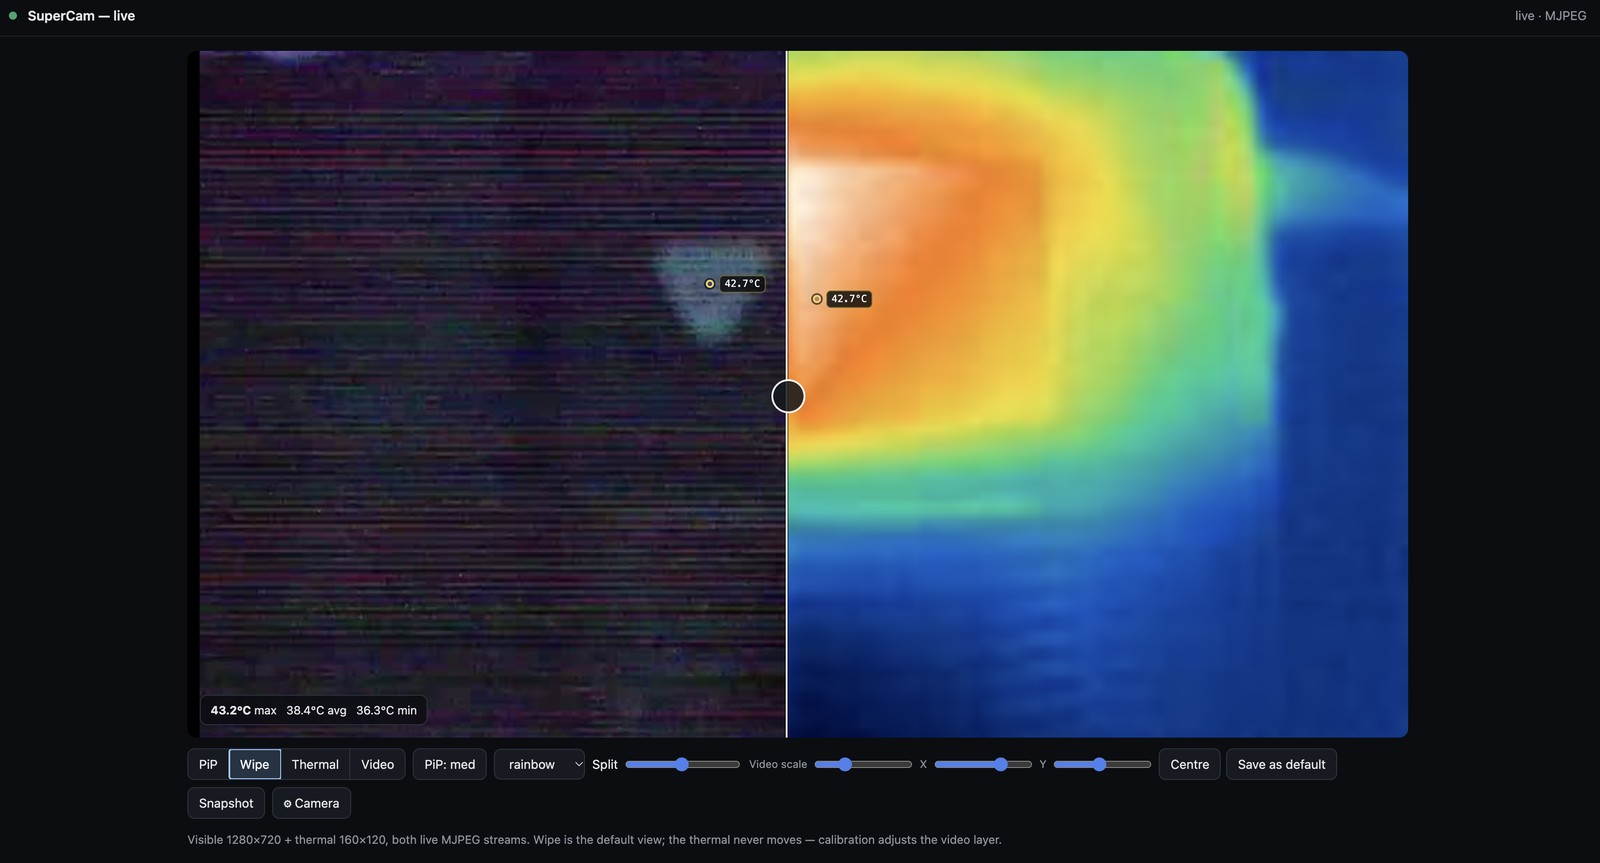
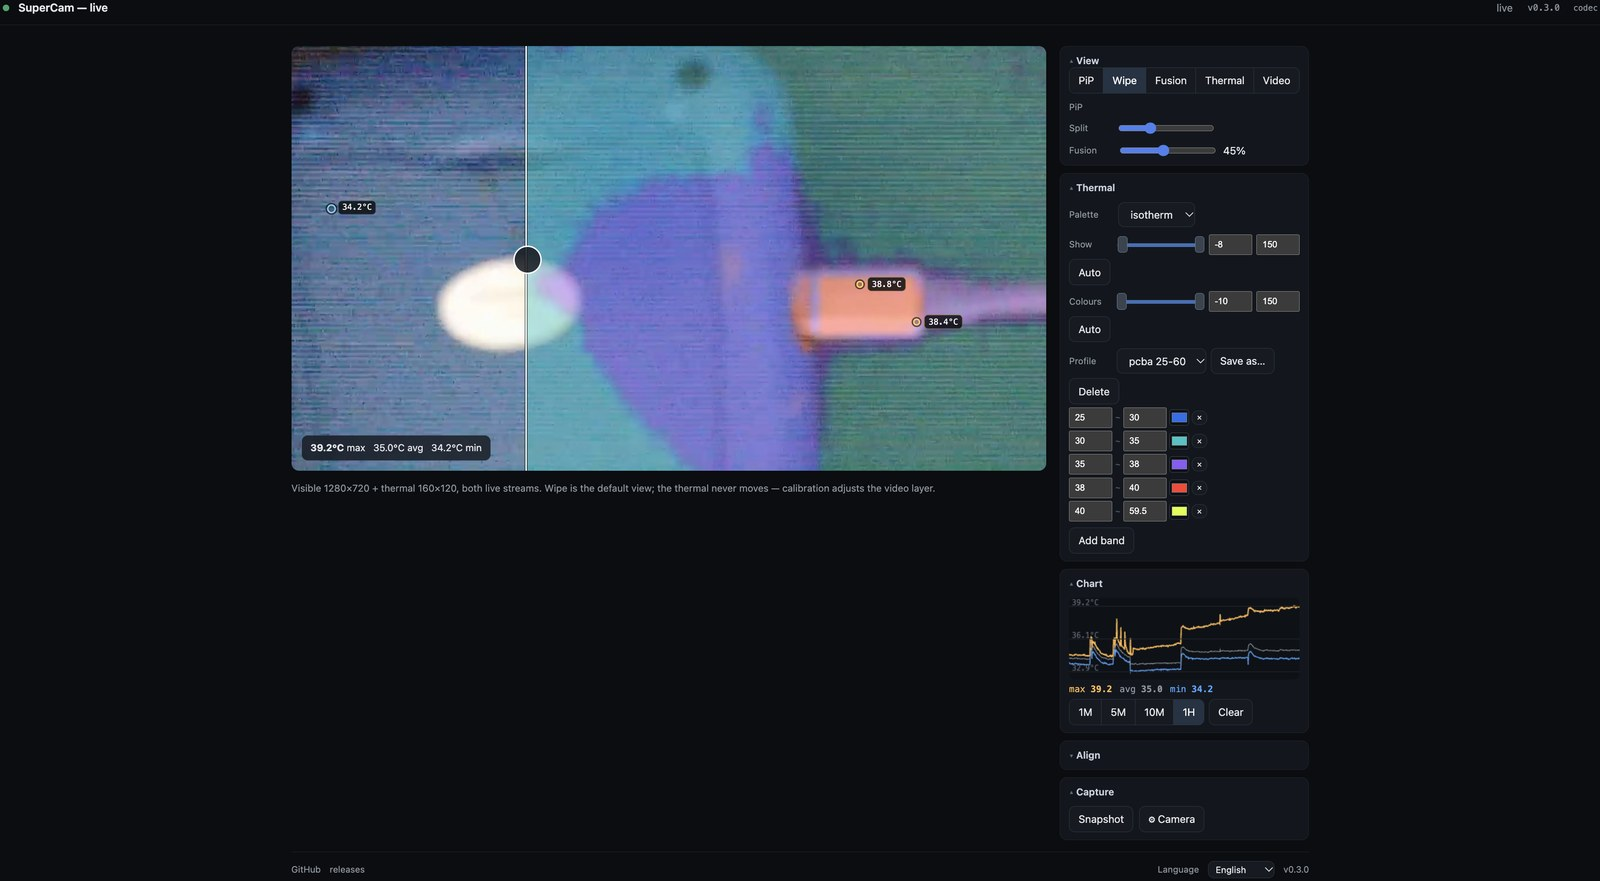
README: new hero image and the current feature set
Replaces the screenshot with the isotherm/wipe view (cropped and recompressed), and
rewrites What you get and The web GUI to match what is actually there now: the two
temperature bands, isotherm profiles with per-band colours, Fusion (including in Wipe
and PiP), the alignment controls, the temperature chart, translations and the side
panel.

diff --git a/README.md b/README.md
@@ -7,7 +7,7 @@ camera, several badges: this project should work with any of them, in your brows
 
 Point it at your network and it finds the camera, connects, and serves a web GUI.
 
-![SuperCam live view - visible and thermal, in Wipe mode](docs/supercam-example.jpg)
+![SuperCam web GUI - wipe comparison with the isotherm palette, band controls and temperature chart](docs/supercam-example.jpg)
 
 ## Quick start
 
@@ -34,11 +34,21 @@ pip install -r requirements.txt
   origin, since WebCodecs requires a secure context — fall back to a small
   server-side MJPEG transcode, which only runs while somebody is watching.
 * **Thermal channel decoded** — 160×120, 16-bit — with rainbow / ironbow / white-hot /
-  black-hot palettes, switchable live from the GUI and remembered across restarts.
-* **Temperature readout** — max / average / min, with the hottest point, the coldest
-  and up to two further peaks detected and labelled on the image.
-* **Four view modes** — PiP, a draggable **wipe** comparison, or either feed
-  full-frame. The chosen mode and split position are remembered.
+  black-hot palettes and an **isotherm mode** that paints a colour per temperature band.
+* **Isotherm profiles** — a band editor of `lower ~ upper` rows, each with its own
+  colour. Built-in profiles plus your own, saved by name, so a fixed colour scale can be
+  returned to for long-running comparisons.
+* **Two temperature bands** — *Show* clips what is drawn at all (anything outside is
+  white, so a 25 °C room can be ignored while watching for 35 °C and above), and
+  *Colours* pins what the palette spans.
+* **Temperature readout and history** — max / average / min, the hottest and coldest
+  points and two further peaks labelled on the image, plus a **rolling chart** of the
+  three series with 1M / 5M / 10M / 1H windows and a clear button.
+* **Five view modes** — Wipe, PiP, **Fusion**, Thermal and Video. Fusion blends the
+  thermal over the visible feed at an adjustable intensity, and the same intensity
+  applies in Wipe and PiP.
+* **Alignment controls** — a nudge pad, Rotate, Flip H/V and the scale/offset sliders,
+  saved with the calibration, so the visible feed can be registered onto the thermal.
 * **Snapshot** — saves what you actually see: the current mode, split, calibration,
   temperature labels and readout, not just one raw feed.
 * **Camera status at a glance** — the header dot shows live / connected-but-no-frames /
@@ -47,6 +57,8 @@ pip install -r requirements.txt
   reboot it to apply, all from the GUI.
 * **Auto-discovery** — finds cameras on the local network rather than needing a fixed
   IP, and backs off politely when the camera is missing.
+* **Translations** — English, Spanish, French, German and Portuguese, one JSON file per
+  language (see below).
 * **Looks after itself** — the relay runs under a supervisor with a stall watchdog,
   and can update itself from GitHub releases without leaving the browser.
 
@@ -80,30 +92,44 @@ with its own name, which is how the relay identifies it.
 
 ## The web GUI
 
+The view fills the page and the controls sit in a side panel: **View**, **Thermal**,
+**Chart**, **Align** and **Capture**, each collapsible, with the controls that cannot
+affect the current view hidden.
+
 | Mode | What it shows |
 |---|---|
 | **Wipe** | Video with a draggable bar revealing the thermal — the easy way to calibrate (default) |
 | **PiP** | Video with the thermal in a corner inset (three sizes) |
+| **Fusion** | Thermal over the video at an adjustable intensity |
 | **Thermal** | Thermal full-frame, with temperature labels |
 | **Video** | Visible feed only |
 
-Under the view: palette, **temperature band**, PiP size, the wipe position, and the
-calibration sliders (`Video scale`, `X`, `Y`).
+**Temperature bands** (Thermal panel). With nothing set the colours span each frame's
+own min..max, so they slide around as the scene changes. Set **Show** to clip — anything
+outside is drawn white, which is how you ignore a 25 °C room and look only at what is
+above 35 °C — and **Colours** to pin what the palette spans. `Auto` clears either, and
+the relay keeps both across restarts.
 
-**Temperature band** — with no band set the colours span each frame's own min..max,
-so they slide around as the scene changes. Set a minimum and maximum (in °C, `Band °C`
-in the toolbar) and the palette is pinned to that range instead, with everything
-outside it drawn **white** — which is how you pick one component's heat out of a
-board without the rest blowing the scale. `Auto` returns to the automatic span. The
-relay remembers the band across restarts.
+**Isotherm** (Thermal panel → Palette → `isotherm`) draws a colour per temperature band.
+A profile is a list of rows, each `lower ~ upper` with its own colour; `Add band`
+continues from the previous row. `Save as…` names the current bands and `Delete` removes
+your own (built-ins are protected). `pcba 25-60` and `fine 1C` ship with the project.
 
-**Calibration** is stored server-side and shared with every viewer. `Reset to saved`
-returns the sliders to that stored alignment; `Centre` is the hard 1×/0/0 reset. A
-hidden or throttled browser tab can leave an MJPEG stream showing a stale frame, so
-the streams are prodded back to life whenever the tab becomes visible again. The header shows the running version — and turns into an
-update link when a newer release is available — followed by a badge saying whether
-this browser is decoding the feed itself (`codec`) or the relay is transcoding it
-(`mjpeg`).
+**Chart** keeps the last hour of max / average / min in the browser, with 1M / 5M / 10M /
+1H windows and a `Clear` button — a reload does not lose it.
+
+**Align** — a nudge pad (0.5 % a press), Rotate, Flip H, Flip V, and the scale and offset
+sliders. `Reset to saved` returns to the stored alignment; `Centre` is the hard 1×/0/0
+reset. Calibration is stored server-side and shared with every viewer. A hidden or
+throttled browser tab can leave an MJPEG stream showing a stale frame, so the streams are
+prodded back to life whenever the tab becomes visible again.
+
+**Capture** — a snapshot of the composed view (mode, split, fusion, calibration,
+temperature labels and readout), and the camera settings dialog.
+
+The header shows the running version — and turns into an update link when a newer
+release is available — followed by a badge saying whether this browser is decoding the
+feed itself (`codec`) or the relay is transcoding it (`mjpeg`).
 
 ## Updating
 
